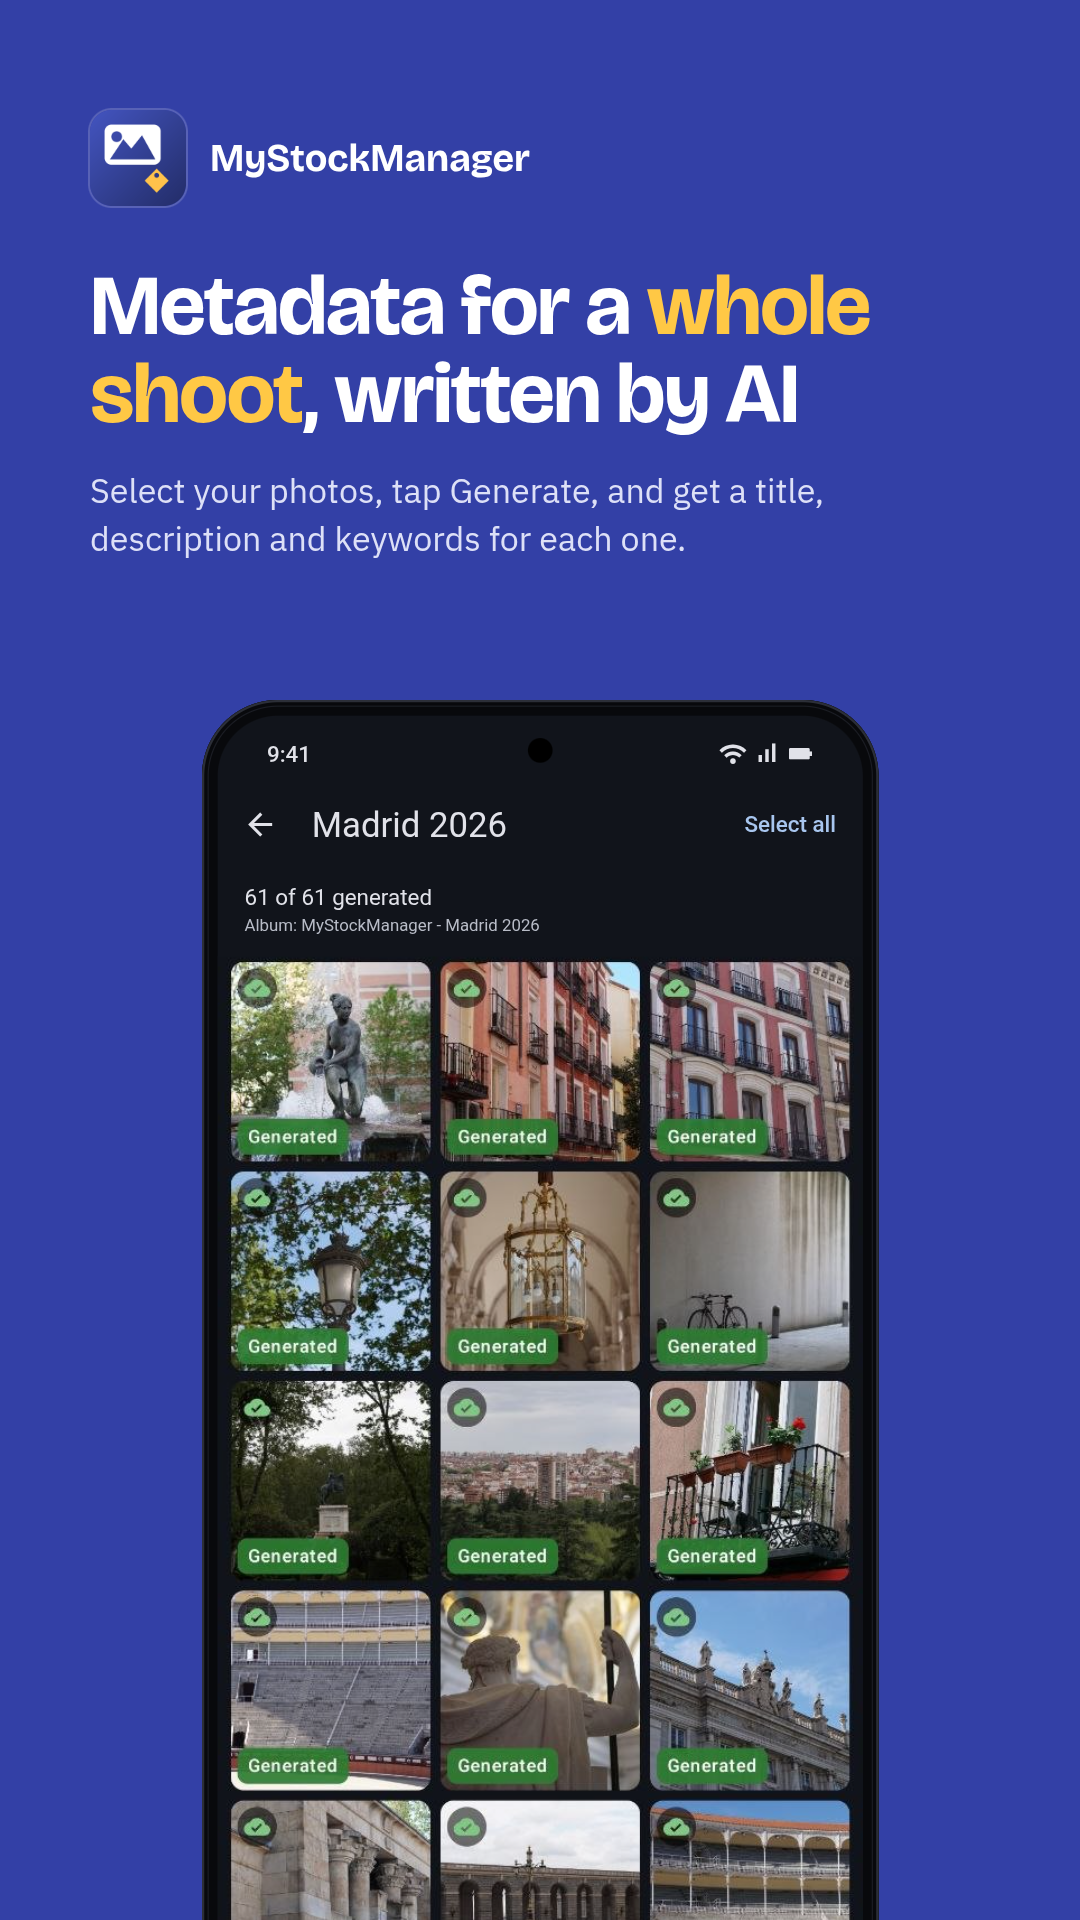
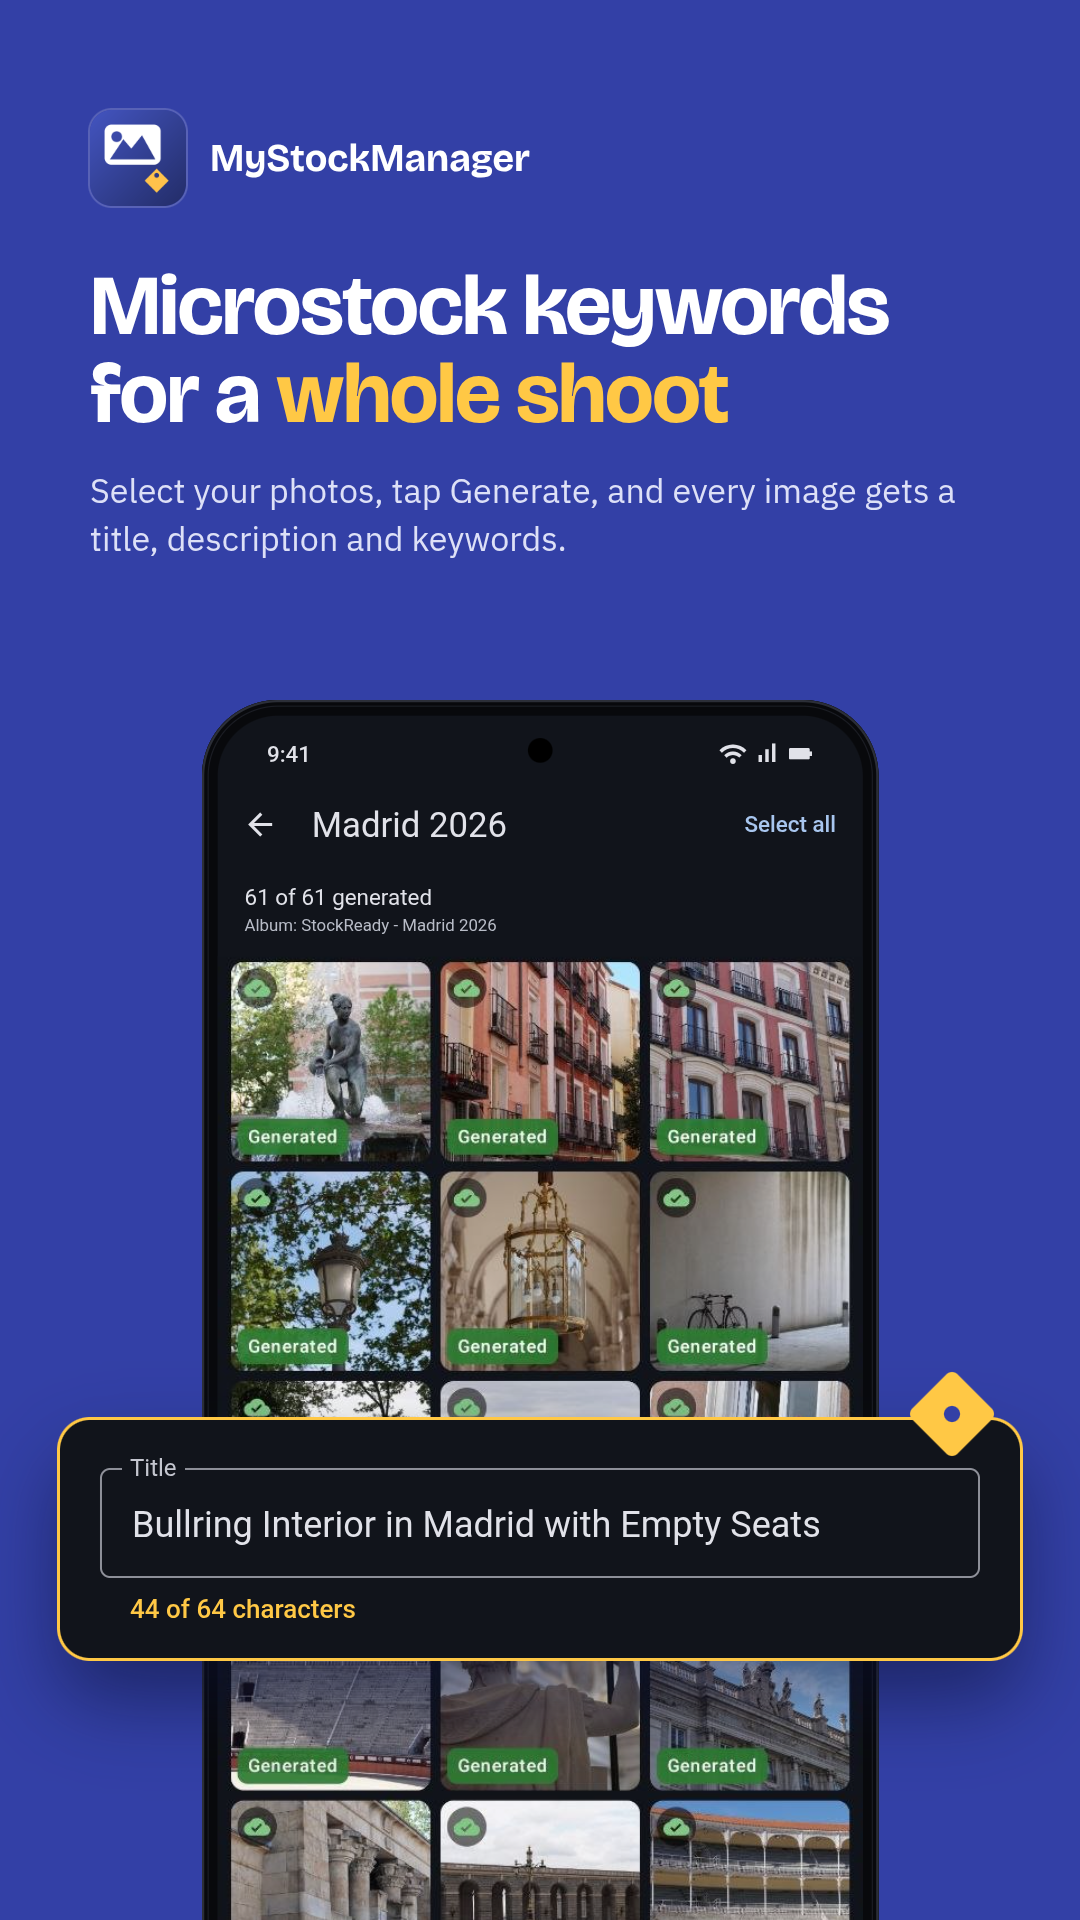
chore: update docs

diff --git a/README.md b/README.md
@@ -1,4 +1,4 @@
-<img src="docs/feature-graphic-1024x500.png" alt="MyStockManager - metadata for a whole shoot, written by AI">
+<img src="docs/feature-graphic-1024x500.png" alt="MyStockManager - microstock keywords for a whole shoot, generated on your phone">
 
 # MyStockManager
 
@@ -9,11 +9,12 @@ Shutterstock already carries its metadata.
 <a href="https://play.google.com/store/apps/details?id=com.mrlaki5.mystockmanager"><img src="https://play.google.com/intl/en_us/badges/static/images/badges/en_badge_web_generic.png" alt="Get it on Google Play" height="80"></a>
 
 <p>
-  <img src="docs/screenshot-1.png" alt="Event with every image generated" width="19%">
-  <img src="docs/screenshot-2.png" alt="Events list" width="19%">
-  <img src="docs/screenshot-3.png" alt="Title and description editor with character counts" width="19%">
-  <img src="docs/screenshot-4.png" alt="Keywords and caption saved in the file" width="19%">
-  <img src="docs/screenshot-5.png" alt="Settings with the OpenAI API key and NextCloud sync" width="19%">
+  <img src="docs/screenshot-1.png" alt="Event with every image generated" width="16%">
+  <img src="docs/screenshot-2.png" alt="On-device generation in Settings: free, no API key" width="16%">
+  <img src="docs/screenshot-3.png" alt="Keywords and caption saved in the file" width="16%">
+  <img src="docs/screenshot-4.png" alt="Title and description editor with character counts" width="16%">
+  <img src="docs/screenshot-5.png" alt="Events list" width="16%">
+  <img src="docs/screenshot-6.png" alt="Optional NextCloud sync in Settings" width="16%">
 </p>
 
 ## What it does
